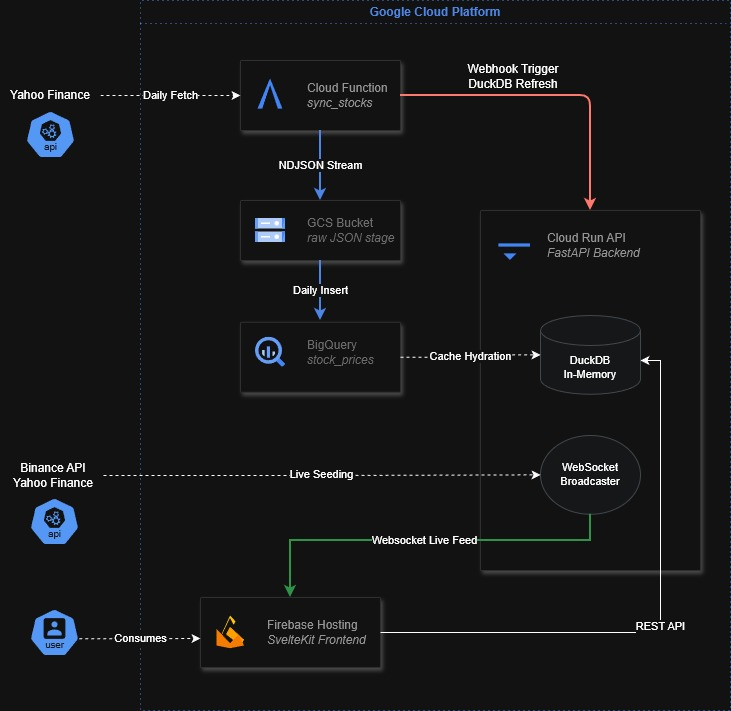
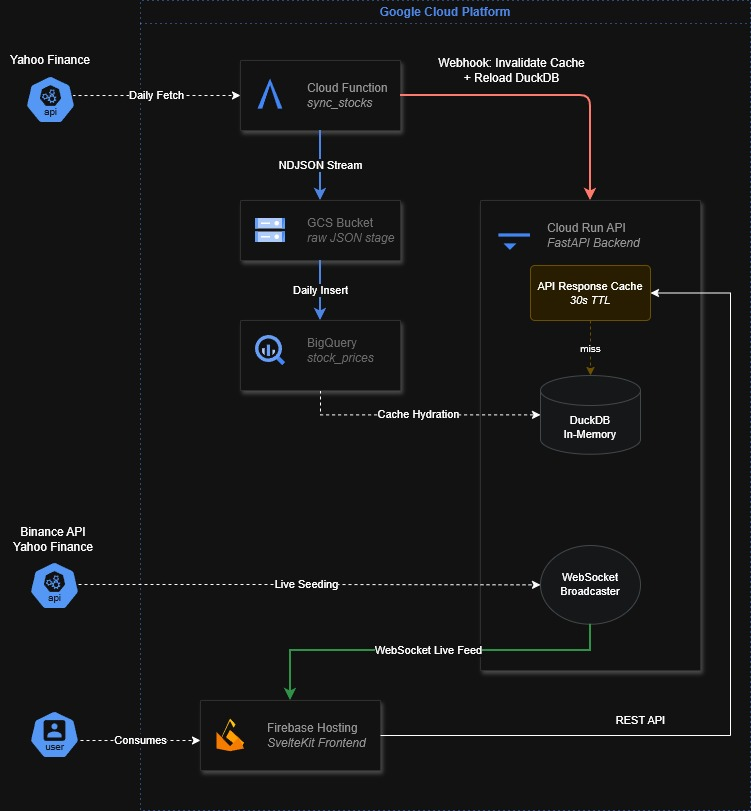
docs: update README with project overview, architecture diagram, feature breakdown, and dashboard screenshots

diff --git a/frontend/README.md b/frontend/README.md
@@ -1,42 +1,77 @@
-# sv
+# Global Exchange Monitor
 
-Everything you need to build a Svelte project, powered by [`sv`](https://github.com/sveltejs/cli).
+A real-time global stock market dashboard tracking 6 major indices — S&P 500, EURO STOXX 50, FTSE 100, Nikkei 225, CSI 300, and Nifty 50 — with sector analysis, cross-index comparison, and live price feeds.
 
-## Creating a project
+---
 
-If you're seeing this, you've probably already done this step. Congrats!
+## Screenshots
 
-```sh
-# create a new project
-npx sv create my-app
-```
+### Global Index Overview
+![Global Index Overview](docs/Dashboard_indices.jpg)
+Normalized % change comparison across all 6 indices with interactive crosshair tooltip, volume chart, and a sortable performance table showing current price, YTD return, 52-week range, and period return.
 
-To recreate this project with the same configuration:
+### Sector Analysis
+![Sector Analysis](docs/Dashboard_sectors.jpg)
+Cross-index sector performance with a heatmap, industry breakdown, and top/bottom movers — filterable by index, industry, and time period.
 
-```sh
-# recreate this project
-npx sv create --template minimal --no-types --add tailwindcss="plugins:none" --install npm .
-```
+### Stock Page
+![Stock Page](docs/Dashboard_stocks.jpg)
+Per-stock OHLCV candlestick chart with MA30/MA90 overlays, live price feed, top movers panel, market leaders, and global macro indicators.
 
-## Developing
+---
 
-Once you've created a project and installed dependencies with `npm install` (or `pnpm install` or `yarn`), start a development server:
+## Architecture
 
-```sh
-npm run dev
+![Architecture Diagram](docs/Diagram.jpg)
 
-# or start the server and open the app in a new browser tab
-npm run dev -- --open
-```
+### How it works
 
-## Building
+**Ingestion** — A Cloud Function (`sync_stocks`) runs daily, fetching OHLCV data from Yahoo Finance for all index constituents. It performs per-symbol gap detection using exchange calendars (XNYS, XFRA, XLON, XTKS, XSHG, XBOM) to catch interior gaps, not just trailing ones. Data flows: Yahoo Finance → GCS (raw NDJSON staging) → BigQuery (persistent warehouse).
 
-To create a production version of your app:
+**Backend** — A FastAPI app on Cloud Run hydrates per-index DuckDB in-memory tables from BigQuery on startup, with lazy loading per index. An API response cache (5s TTL) sits in front of DuckDB for hot-path queries. When the Cloud Function completes a sync, it fires a webhook that invalidates the cache and triggers a background DuckDB reload — non-blocking, so stale data is served during the refresh window. All SQL queries are extracted into standalone `.sql` files and loaded with a caching loader.
 
-```sh
-npm run build
-```
+**Real-time feed** — A background task polls Binance and Yahoo Finance every 10 seconds and broadcasts live prices via WebSocket to all connected clients.
 
-You can preview the production build with `npm run preview`.
+**Frontend** — SvelteKit app hosted on Firebase Hosting. Connects to the REST API for historical data and opens a WebSocket for live price updates.
 
-> To deploy your app, you may need to install an [adapter](https://svelte.dev/docs/kit/adapters) for your target environment.
+### Stack
+
+| Layer | Technology |
+|---|---|
+| Frontend | SvelteKit, TailwindCSS, Lightweight Charts |
+| Backend | FastAPI, DuckDB (in-memory), Python |
+| Warehouse | BigQuery |
+| Ingestion | Google Cloud Functions, yfinance, exchange-calendars |
+| Staging | Google Cloud Storage |
+| Hosting | Firebase Hosting (frontend), Cloud Run (backend) |
+| Real-time | WebSocket, Binance API, Yahoo Finance |
+
+---
+
+## Features
+
+### Global Index Overview
+- Normalized % change chart across up to 6 indices simultaneously with unified timeline and forward-fill for sparse series
+- Interactive crosshair tooltip showing price, % change, and volume per index at any date
+- Volume bar chart synchronized with the main chart
+- Index performance table: current price, daily change, YTD, 52-week range, period return, volume
+- Period selector: 1W · 1MO · 3MO · 6MO · 1Y · 5Y · MAX · Custom Range
+
+### Sector Analysis
+- **Cross-index mode** — track one sector across all 6 indices on a single normalized chart
+- **Single-index mode** — compare multiple sectors within one index
+- Per-stock normalization + unified timeline + forward-fill prevents chart spikes from IPOs, delistings, and trading calendar mismatches
+- **Sector Heatmap** — all sectors × all indices, colour-coded by return magnitude, with cross-index average column
+- **Industry breakdown** — drill into sub-industries within any sector per index
+- **Top/bottom movers** — best and worst performing stocks within the selected sector and period
+- Sidebar industry filter with per-index stock counts and ctrl+click to isolate
+- Period selector with custom date range support
+
+### Stock Page
+- OHLCV candlestick chart with MA30 and MA90 overlays
+- Live price line (WebSocket) shown alongside historical candles with VS LIVE delta in tooltip
+- Sector/industry browse tree in sidebar with stock count per node
+- Symbol search
+- **Top Movers** panel — period return bar chart for top and bottom performers in the index
+- **Market Leaders** panel — real-time price and daily change for index blue chips
+- **Global Macro** panel — live BTC/USD, XAU/USD, EUR/USD via WebSocket
